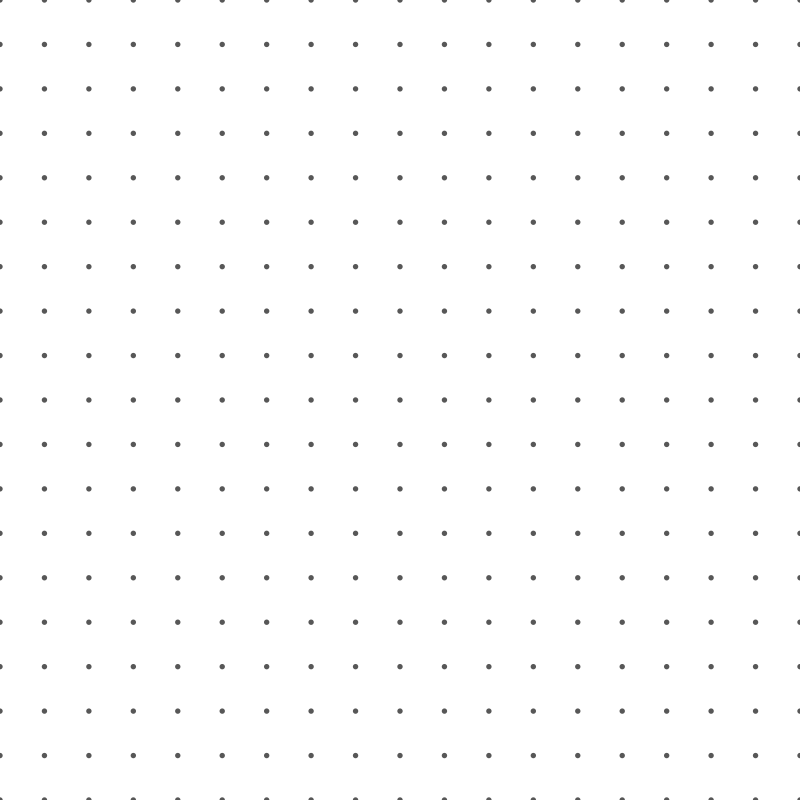
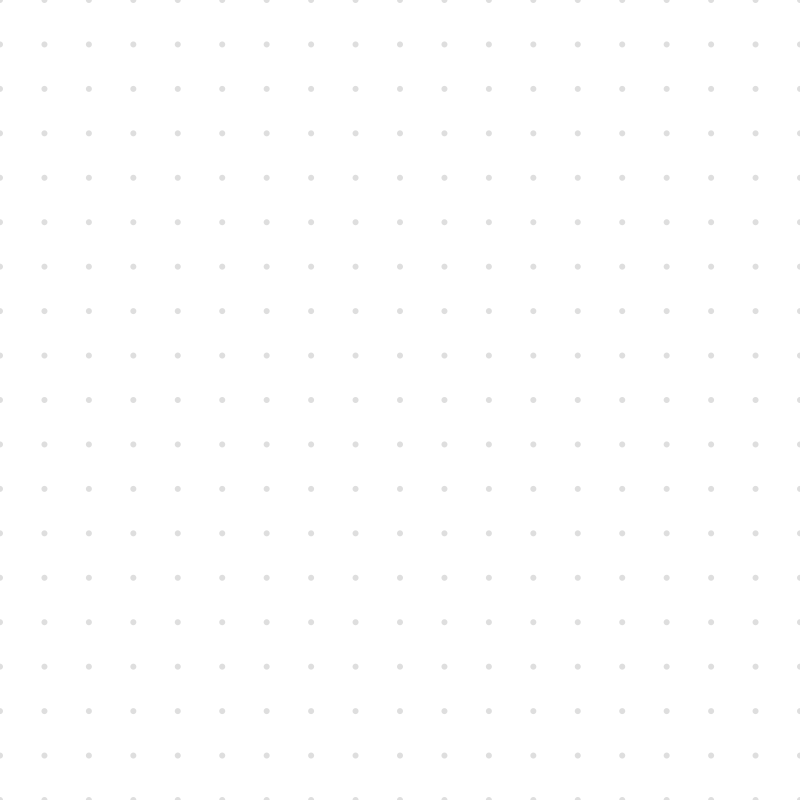
landing page done-ish

diff --git a/src/screens/Landing.js b/src/screens/Landing.js
@@ -1,19 +1,30 @@
 import * as React from 'react';
-import { View, Image, StyleSheet, Text } from 'react-native';
-import CustomButton from '../components/NavigationButton';
+import { View, Image, StyleSheet, Text, TouchableOpacity } from 'react-native';
+import NavigationButton from '../components/NavigationButton';
 
 //source={require('../assets/blob_background.png')}
 const Landing = ({ navigation }) => {
+
+  const handleLinkPress = () => {
+    Linking.openURL('https://anywhereaccess.io');
+  };
+
   return (
     <View style={styles.container}>
       <View style={styles.topContainer}>
+        <Image
+          source={require('../assets/blob_background.png')}
+          style={styles.backgroundImage}
+        />
         <Image
           source={require('../assets/card_rotate_animation.gif')}
           style={styles.centeredImage}
         />
       </View>
       <View style={styles.bottomContainer}>
-        <CustomButton navigation={navigation} text='Scan Card' type='primary' target='Login' size='large' />
+        <NavigationButton navigation={navigation} text='Scan Card' type='primary' target='Login' size='large' />
+        <Text style={styles.paragraphText}>Don't have a card?</Text>
+        <Text><TouchableOpacity onPress={handleLinkPress}><Text style={styles.linkText}>Order one here.</Text></TouchableOpacity></Text>
       </View>
     </View>
   );
@@ -27,15 +38,27 @@ const styles = StyleSheet.create({
     flex: 2,
     justifyContent: 'center',
     alignItems: 'center',
-    backgroundImage: require('../assets/blob_background.png')
+  },
+  backgroundImage: {
+    position: 'absolute',
   },
   centeredImage: {
-
+    width: '150%',
+    height: '150%'
   },
   bottomContainer: {
     flex: 1,
     justifyContent: 'center',
     alignItems: 'center',
+  },
+  linkText: {
+    color: 'blue',
+    textDecorationLine: 'underline',
+    fontSize: 18,
+  },
+  paragraphText: {
+    color: '#000000',
+    fontSize: 18,
   },
 });
 
